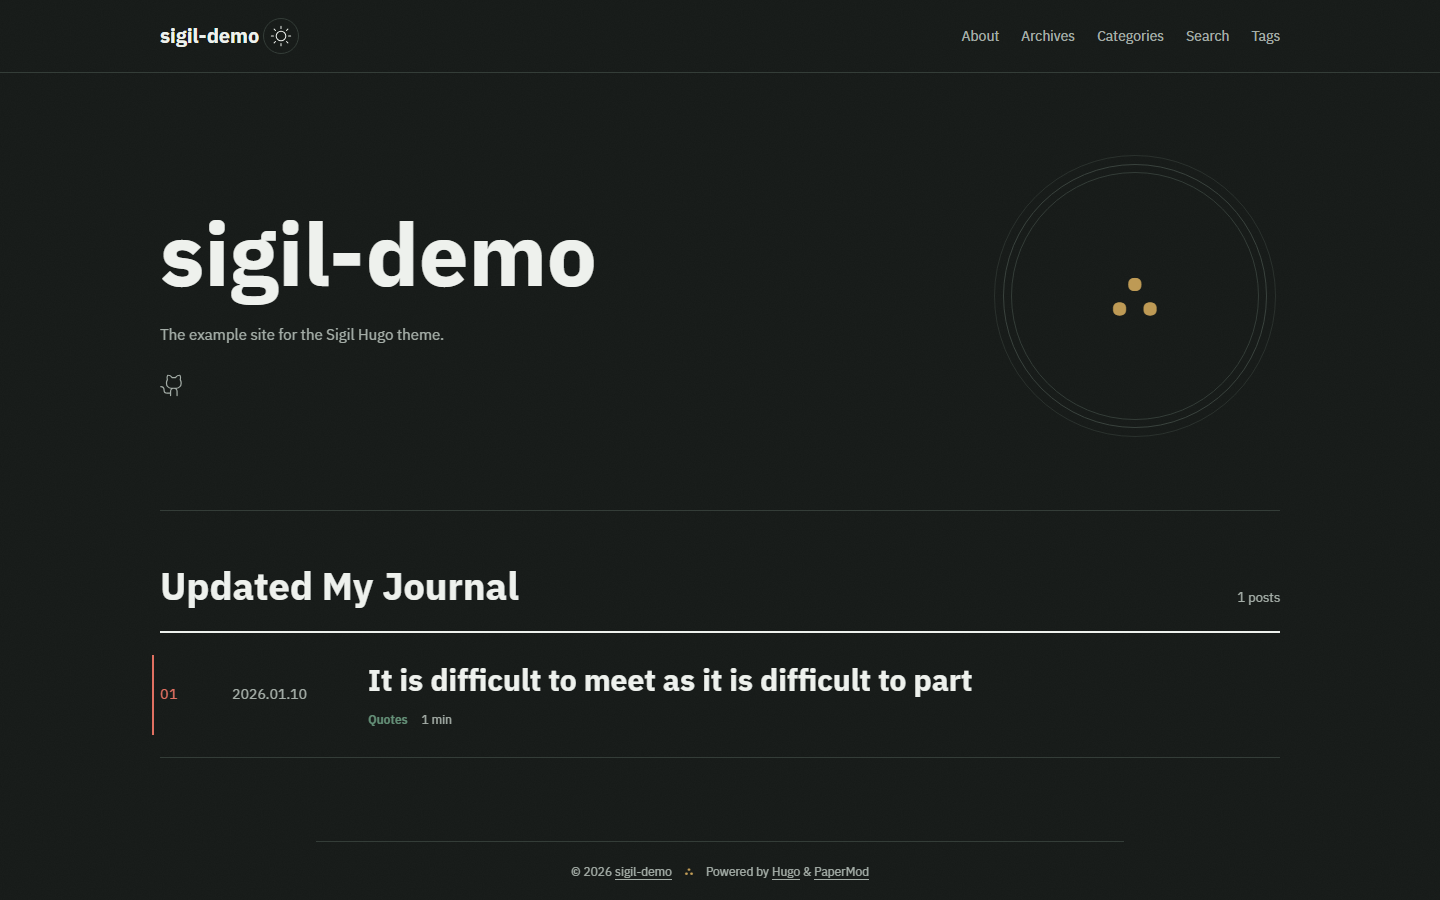
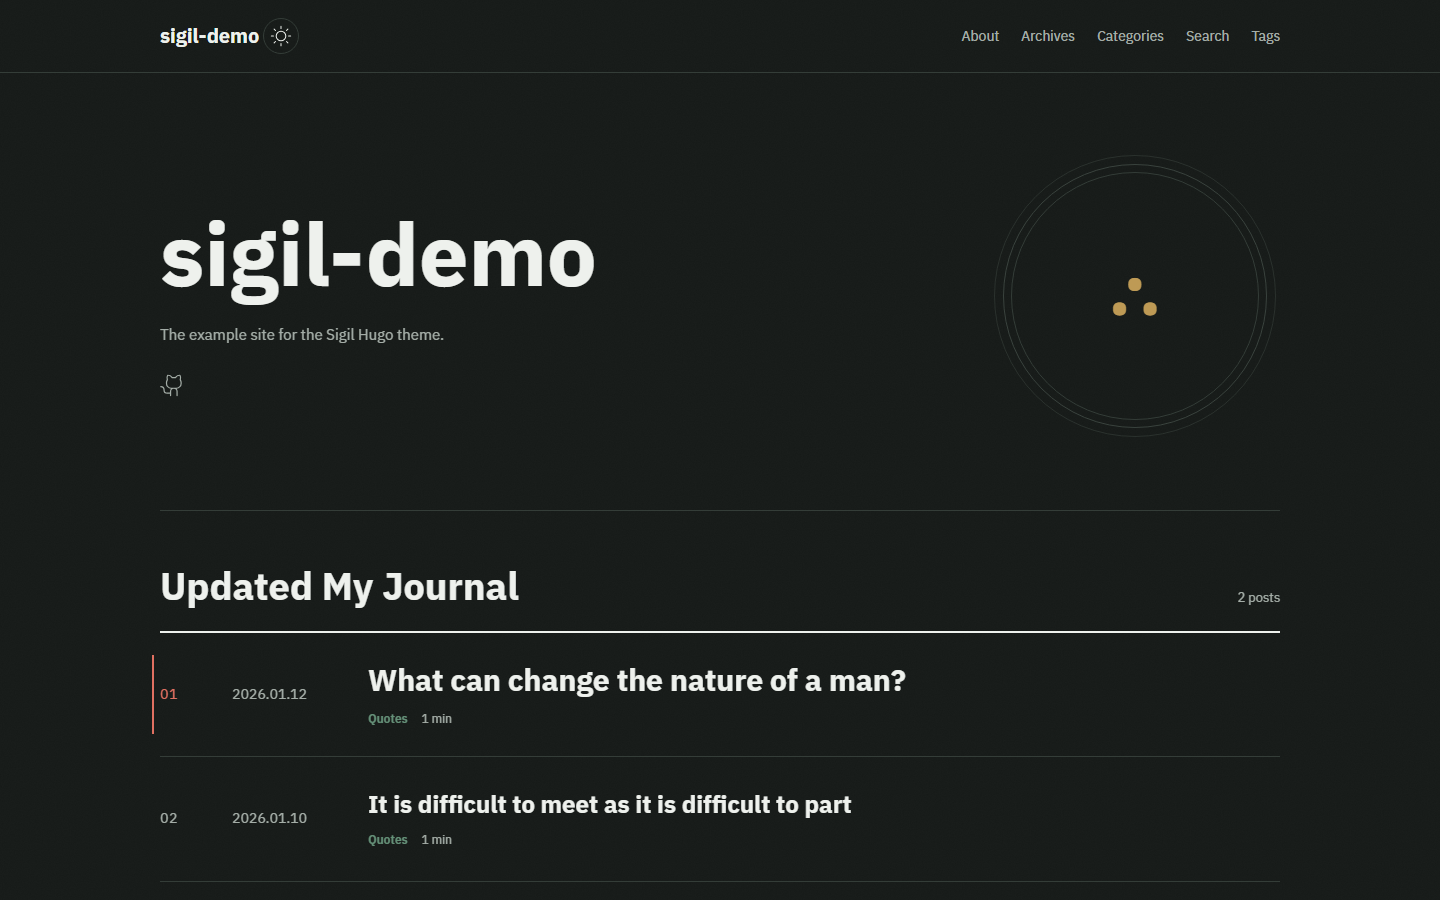
feature: circular reveal on theme toggle, add the games own words as a second demo post

diff --git a/layouts/partials/footer.html b/layouts/partials/footer.html
@@ -81,17 +81,47 @@
 
 {{- if (not site.Params.disableThemeToggle) }}
 <script>
-    document.getElementById("theme-toggle").addEventListener("click", () => {
+    document.getElementById("theme-toggle").addEventListener("click", (e) => {
         const html = document.querySelector("html");
-        if (html.dataset.theme === "dark") {
-            html.dataset.theme = 'light';
-            localStorage.setItem("pref-theme", 'light');
-        } else {
-            html.dataset.theme = 'dark';
-            localStorage.setItem("pref-theme", 'dark');
+        const flip = () => {
+            if (html.dataset.theme === "dark") {
+                html.dataset.theme = "light";
+                localStorage.setItem("pref-theme", "light");
+            } else {
+                html.dataset.theme = "dark";
+                localStorage.setItem("pref-theme", "dark");
+            }
+        };
+        /* antfu.me 式主题切换:新主题从点击处圆形揭示。旧浏览器或
+           prefers-reduced-motion 时退回直接切换。 */
+        if (!document.startViewTransition || matchMedia("(prefers-reduced-motion: reduce)").matches) {
+            flip();
+            return;
         }
+        let x = e.clientX, y = e.clientY;
+        if (!x && !y) {
+            const r = e.currentTarget.getBoundingClientRect();
+            x = r.left + r.width / 2;
+            y = r.top + r.height / 2;
+        }
+        const endRadius = Math.hypot(Math.max(x, innerWidth - x), Math.max(y, innerHeight - y));
+        const transition = document.startViewTransition(flip);
+        transition.ready.then(() => {
+            document.documentElement.animate(
+                {
+                    clipPath: [
+                        `circle(0px at ${x}px ${y}px)`,
+                        `circle(${endRadius}px at ${x}px ${y}px)`,
+                    ],
+                },
+                {
+                    duration: 400,
+                    easing: "ease-in-out",
+                    pseudoElement: "::view-transition-new(root)",
+                },
+            );
+        });
     })
-
 </script>
 {{- end }}
 

diff --git a/layouts/partials/extend_head.html b/layouts/partials/extend_head.html
@@ -115,6 +115,8 @@
     }
     document.addEventListener("click", function (e) {
         if (e.target && e.target.closest && e.target.closest("#theme-toggle")) {
+            /* View Transitions 圆形揭示接管切换动画时,颜色过渡交给它 */
+            if (document.startViewTransition && !matchMedia("(prefers-reduced-motion: reduce)").matches) return;
             root.classList.add("sg-theme-anim");
             setTimeout(function () { root.classList.remove("sg-theme-anim"); }, 420);
         }

diff --git a/assets/css/extended/sigil.css b/assets/css/extended/sigil.css
@@ -2373,6 +2373,13 @@ body {
     transition: background-color 260ms ease, color 260ms ease, border-color 260ms ease !important;
 }
 
+/* antfu.me 式圆形揭示:关掉 View Transition 默认的整页交叉淡入,由 JS 画圆 */
+::view-transition-old(root),
+::view-transition-new(root) {
+    animation: none;
+    mix-blend-mode: normal;
+}
+
 @media (prefers-reduced-motion: reduce) {
     .sg-hero .sg-kicker,
     .sg-hero h1,

diff --git a/exampleSite/content/posts/planescape-torment.md b/exampleSite/content/posts/planescape-torment.md
@@ -17,24 +17,5 @@ Tang-dynasty poem by Li Shangyin[^2], on parting, time, and the end of feeling.
 > When the Spring worms die, the silk shall never come again,
 > When the candle wax becomes ash, tears shall stop.
 
-## What can change the nature of a man?
-
-The question opens the game and follows the Nameless One to its end:
-
-> What can change the nature of a man? If there is anything I have learned in
-> my travels across the Planes, it is that many things may change the nature
-> of a man. Whether regret, or love, or revenge or fear — whatever you believe
-> can change the nature of a man, can.
-
-> I've seen belief move cities, make men stave off death, and turn an evil
-> hag's heart half-circle. This entire Fortress has been constructed from
-> belief...[^3]
-
-## Note
-
-Footnotes in this theme become Tufte-style margin notes on wide screens —
-this line was placed there so you can see one at work.
-
 [^1]: *Planescape: Torment* (Black Isle Studios, 1999).
 [^2]: Li Shangyin (c. 813–858), 無題: 「相見時難別亦難，東風無力百花殘。春蠶到死絲方盡，蠟炬成灰淚始乾。」
-[^3]: Via [Wikiquote](https://en.wikiquote.org/wiki/Planescape:_Torment).

diff --git a/exampleSite/content/posts/what-can-change.md b/exampleSite/content/posts/what-can-change.md
@@ -1,0 +1,30 @@
+---
+title: "What can change the nature of a man?"
+categories:
+  - quotes
+date: 2026-01-12
+slug: what-can-change
+tags:
+  - demo
+  - planescape-torment
+---
+
+*Planescape: Torment*[^1] asks one question from its first screen to its last.
+It is never answered outright — only lived through.
+
+> What can change the nature of a man? If there is anything I have learned in
+> my travels across the Planes, it is that many things may change the nature
+> of a man. Whether regret, or love, or revenge or fear — whatever you believe
+> can change the nature of a man, can.
+
+> I've seen belief move cities, make men stave off death, and turn an evil
+> hag's heart half-circle. This entire Fortress has been constructed from
+> belief...[^2]
+
+## Note
+
+Footnotes in this theme become Tufte-style margin notes on wide screens —
+this line was placed there so you can see one at work.
+
+[^1]: *Planescape: Torment* (Black Isle Studios, 1999).
+[^2]: Via [Wikiquote](https://en.wikiquote.org/wiki/Planescape:_Torment).
